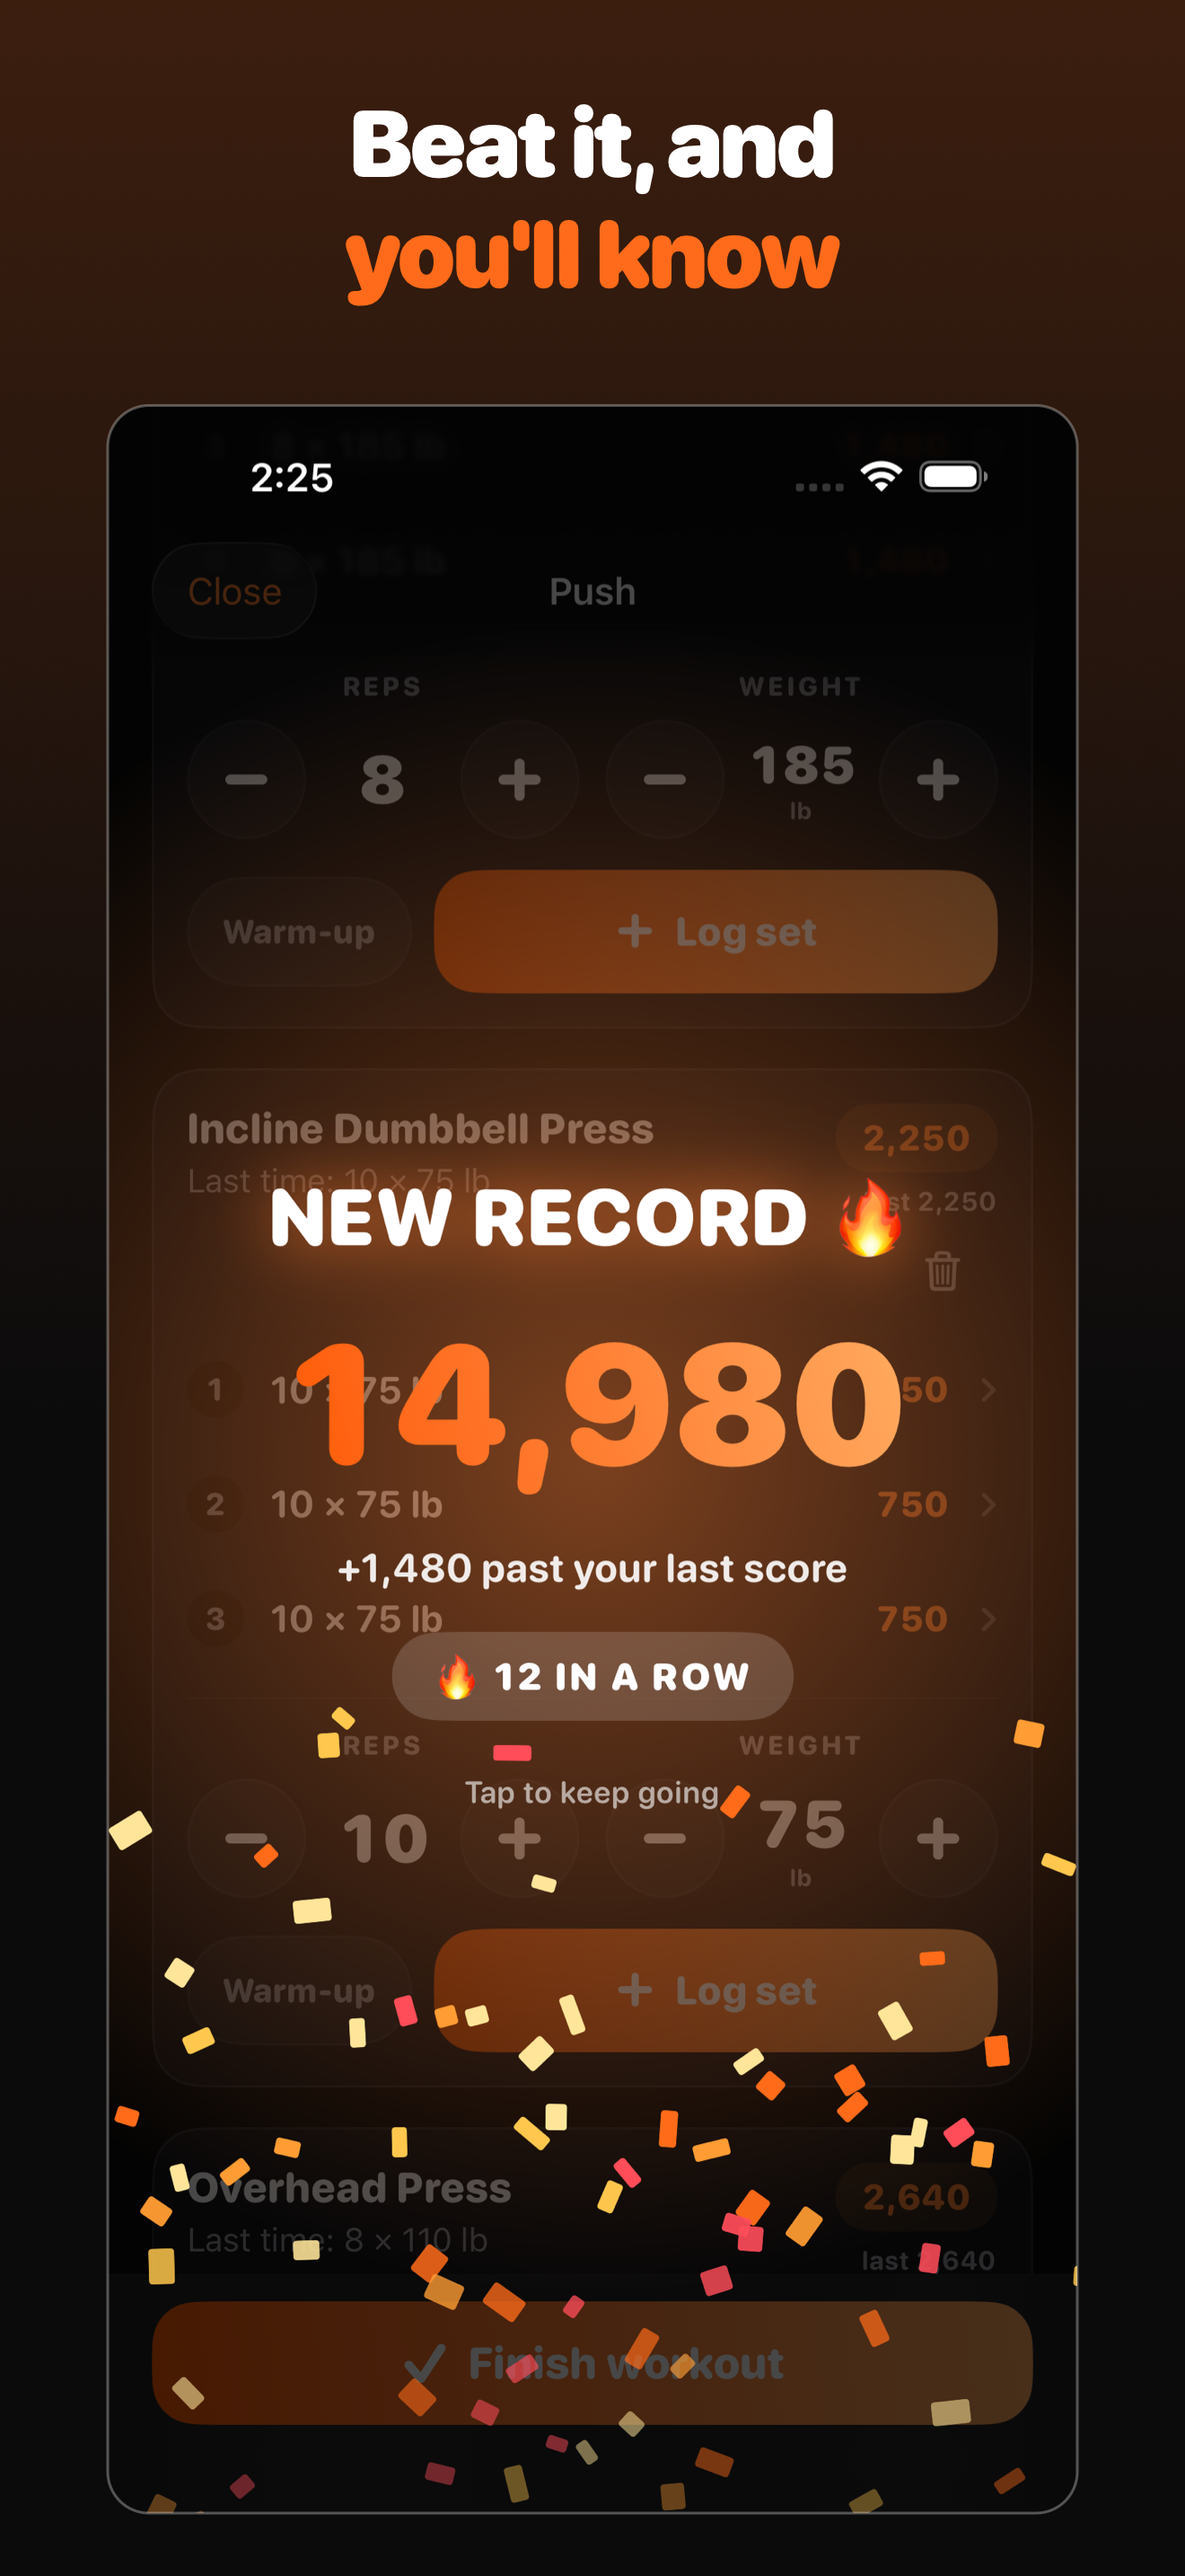
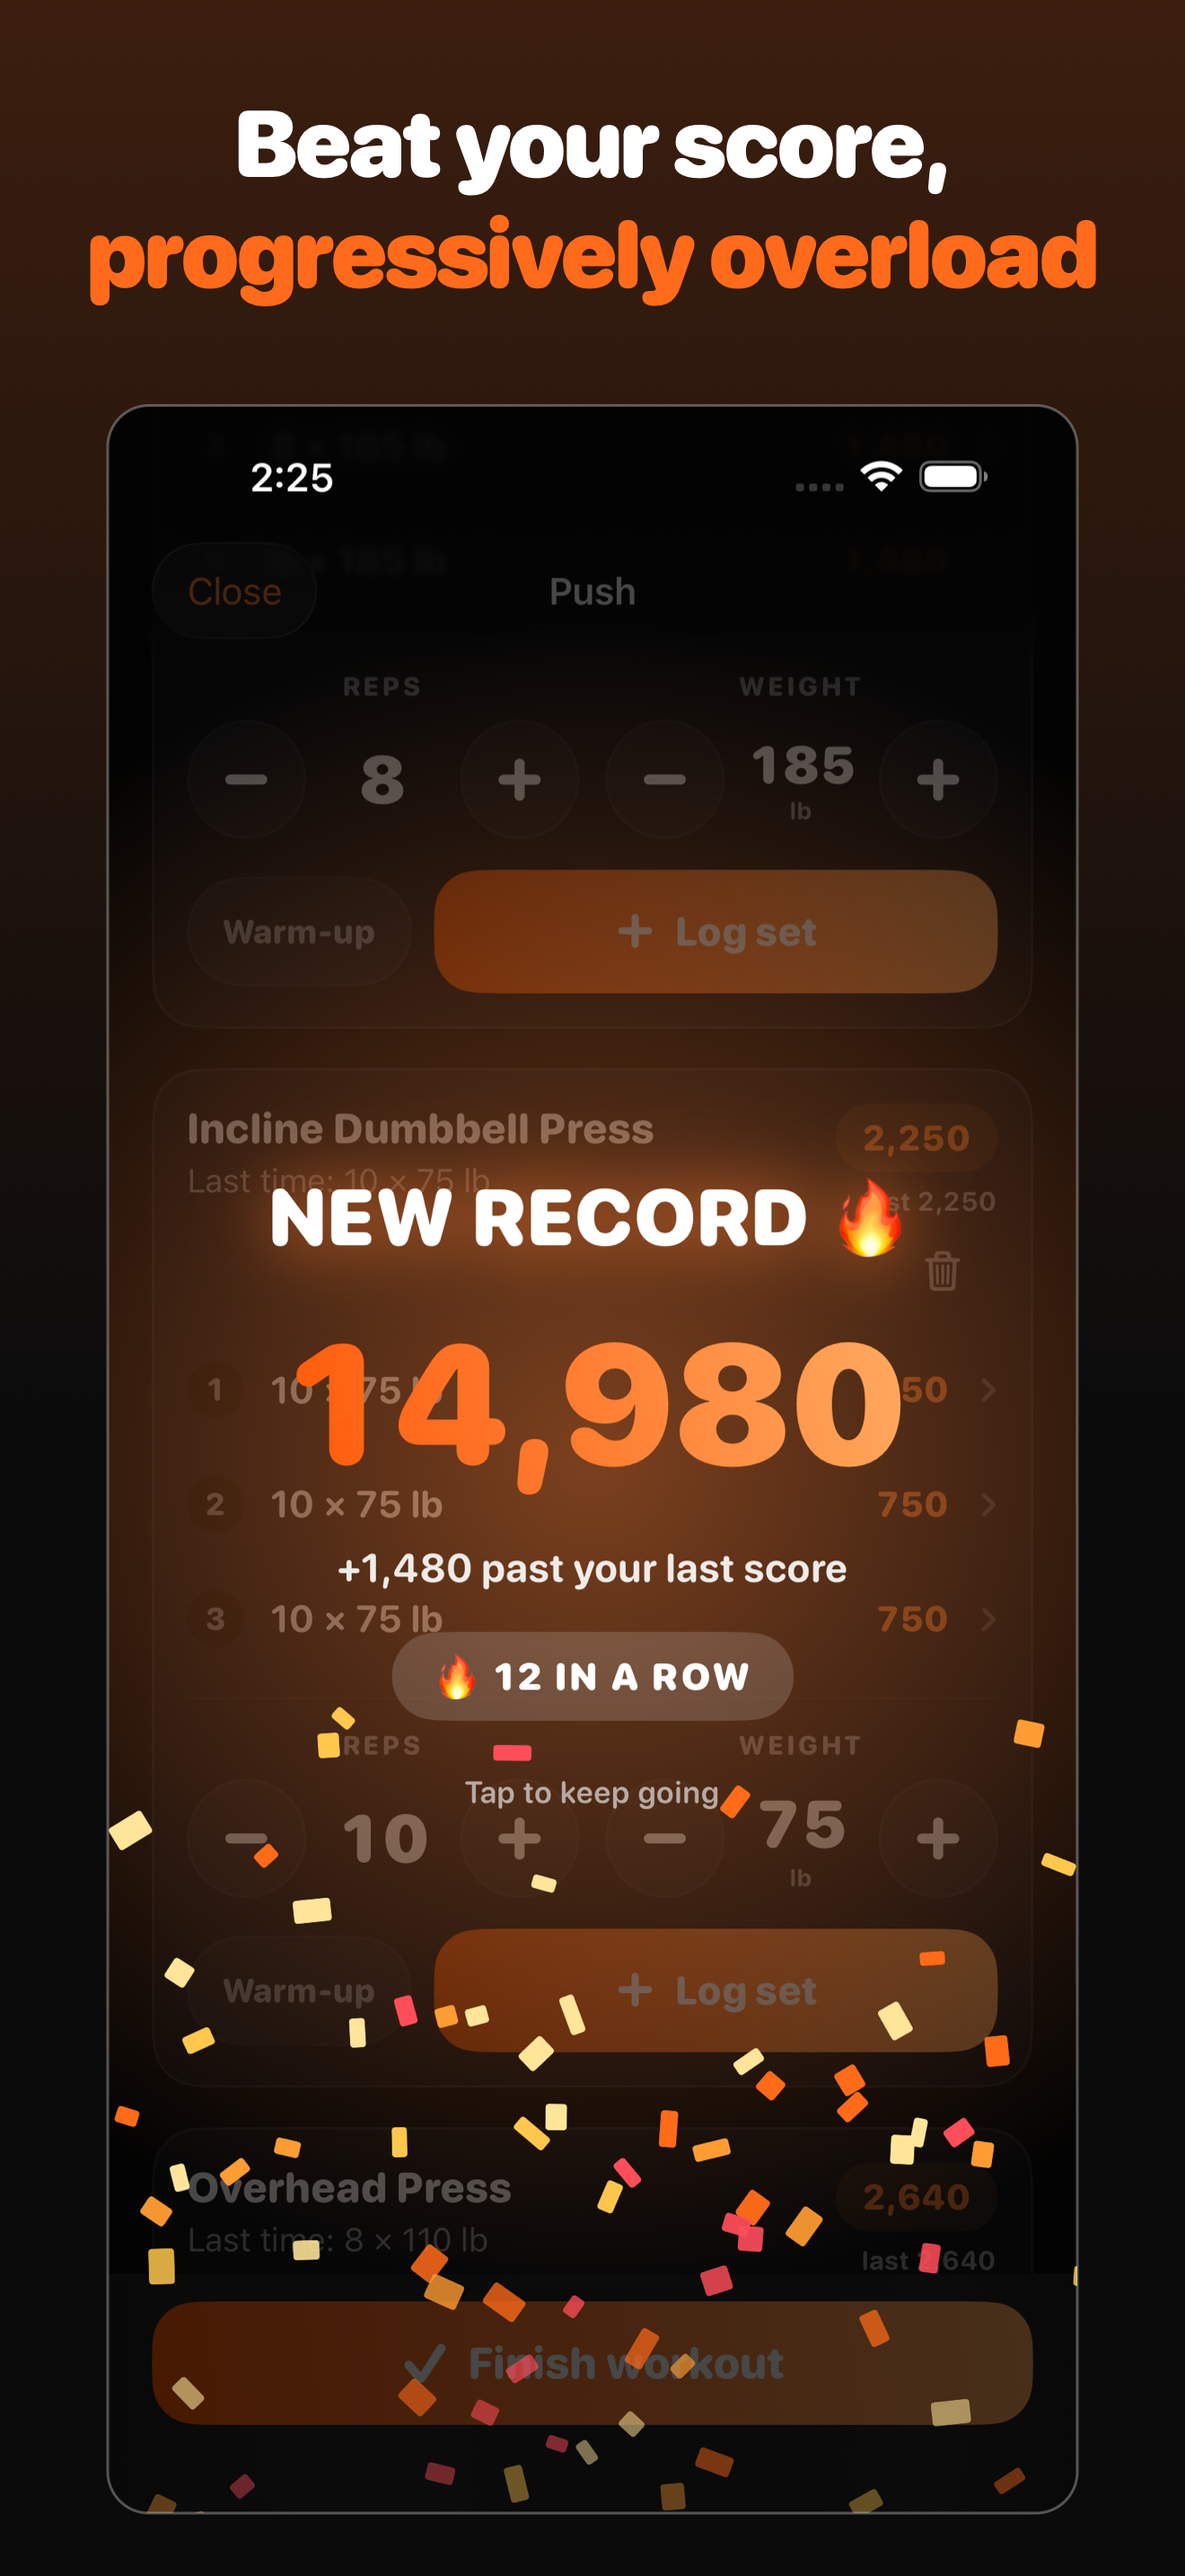
Reword screenshot headlines; auto-size to fit
"Progressively overload" is the term lifters actually use, so it earns its place over
the vaguer "beat it and you'll know". Shots 4 and 5 now say what they show rather than
narrating: "Set new records" and "Track your progress".

Headline size is now computed per screenshot instead of fixed at 104pt. "Progressively
overload" is three times the length of "records" -- one fixed size either wraps the long
ones mid-phrase or leaves the short ones looking timid.

Changed region(s): [[0.0621, 0.031, 0.9318, 0.1241]]

diff --git a/AppStore/make-screenshots.swift b/AppStore/make-screenshots.swift
@@ -19,9 +19,9 @@ struct Shot {
 let shots = [
     Shot(file: "1-home.png",            line1: "Your whole workout,",  line2: "one number"),
     Shot(file: "6-active-workout.png",  line1: "Log a set",            line2: "in two taps"),
-    Shot(file: "2-new-record.png",      line1: "Beat it, and",         line2: "you'll know"),
-    Shot(file: "3-summary.png",         line1: "See how much",         line2: "you beat it by"),
-    Shot(file: "4-records.png",         line1: "Every record",         line2: "you've ever set"),
+    Shot(file: "2-new-record.png",      line1: "Beat your score,",     line2: "progressively overload"),
+    Shot(file: "3-summary.png",         line1: "Set new",              line2: "records"),
+    Shot(file: "4-records.png",         line1: "Track your",           line2: "progress"),
     Shot(file: "5-calendar.png",        line1: "Every session,",       line2: "all in one place"),
 ]
 
@@ -29,6 +29,24 @@ func roundedFont(_ size: CGFloat, _ weight: NSFont.Weight) -> NSFont {
     let base = NSFont.systemFont(ofSize: size, weight: weight)
     guard let d = base.fontDescriptor.withDesign(.rounded) else { return base }
     return NSFont(descriptor: d, size: size) ?? base
+}
+
+/// Largest size at which every line still fits the available width.
+///
+/// Headlines vary a lot in length — "records" against "progressively overload" — and a
+/// fixed size either wraps the long ones mid-phrase or leaves the short ones looking timid.
+/// Sizing per screenshot keeps each headline as large as it can be.
+func fittingSize(_ lines: [String], maxWidth: CGFloat, from start: CGFloat) -> CGFloat {
+    var size = start
+    while size > 56 {
+        let font = roundedFont(size, .black)
+        let widest = lines
+            .map { ($0 as NSString).size(withAttributes: [.font: font, .kern: -2.0]).width }
+            .max() ?? 0
+        if widest <= maxWidth { return size }
+        size -= 2
+    }
+    return size
 }
 
 let orange = NSColor(srgbRed: 1.0, green: 0.42, blue: 0.10, alpha: 1)
@@ -79,15 +97,19 @@ for (index, shot) in shots.enumerated() {
     para.alignment = .center
     para.lineSpacing = -14
 
+    let headlineWidth = CGFloat(W) - 160
+    let size = fittingSize([shot.line1, shot.line2], maxWidth: headlineWidth, from: 104)
+    let font = roundedFont(size, .black)
+
     let text = NSMutableAttributedString()
     text.append(NSAttributedString(string: shot.line1 + "\n", attributes: [
-        .font: roundedFont(104, .black),
+        .font: font,
         .foregroundColor: NSColor.white,
         .paragraphStyle: para,
         .kern: -2.0,
     ]))
     text.append(NSAttributedString(string: shot.line2, attributes: [
-        .font: roundedFont(104, .black),
+        .font: font,
         .foregroundColor: orange,
         .paragraphStyle: para,
         .kern: -2.0,

diff --git a/AppStore/LISTING.md b/AppStore/LISTING.md
@@ -201,9 +201,9 @@ the real app with real data by the UI test suite.
 |---|---|---|
 | 1 | `1-home.png` | Your whole workout, **one number** |
 | 2 | `2-active-workout.png` | Log a set **in two taps** |
-| 3 | `3-new-record.png` | Beat it, and **you'll know** |
-| 4 | `4-summary.png` | See how much **you beat it by** |
-| 5 | `5-records.png` | Every record **you've ever set** |
+| 3 | `3-new-record.png` | Beat your score, **progressively overload** |
+| 4 | `4-summary.png` | Set new **records** |
+| 5 | `5-records.png` | Track your **progress** |
 | 6 | `6-calendar.png` | Every session, **all in one place** |
 
 Marketing composites: headline over the real device capture on a near-black background,
